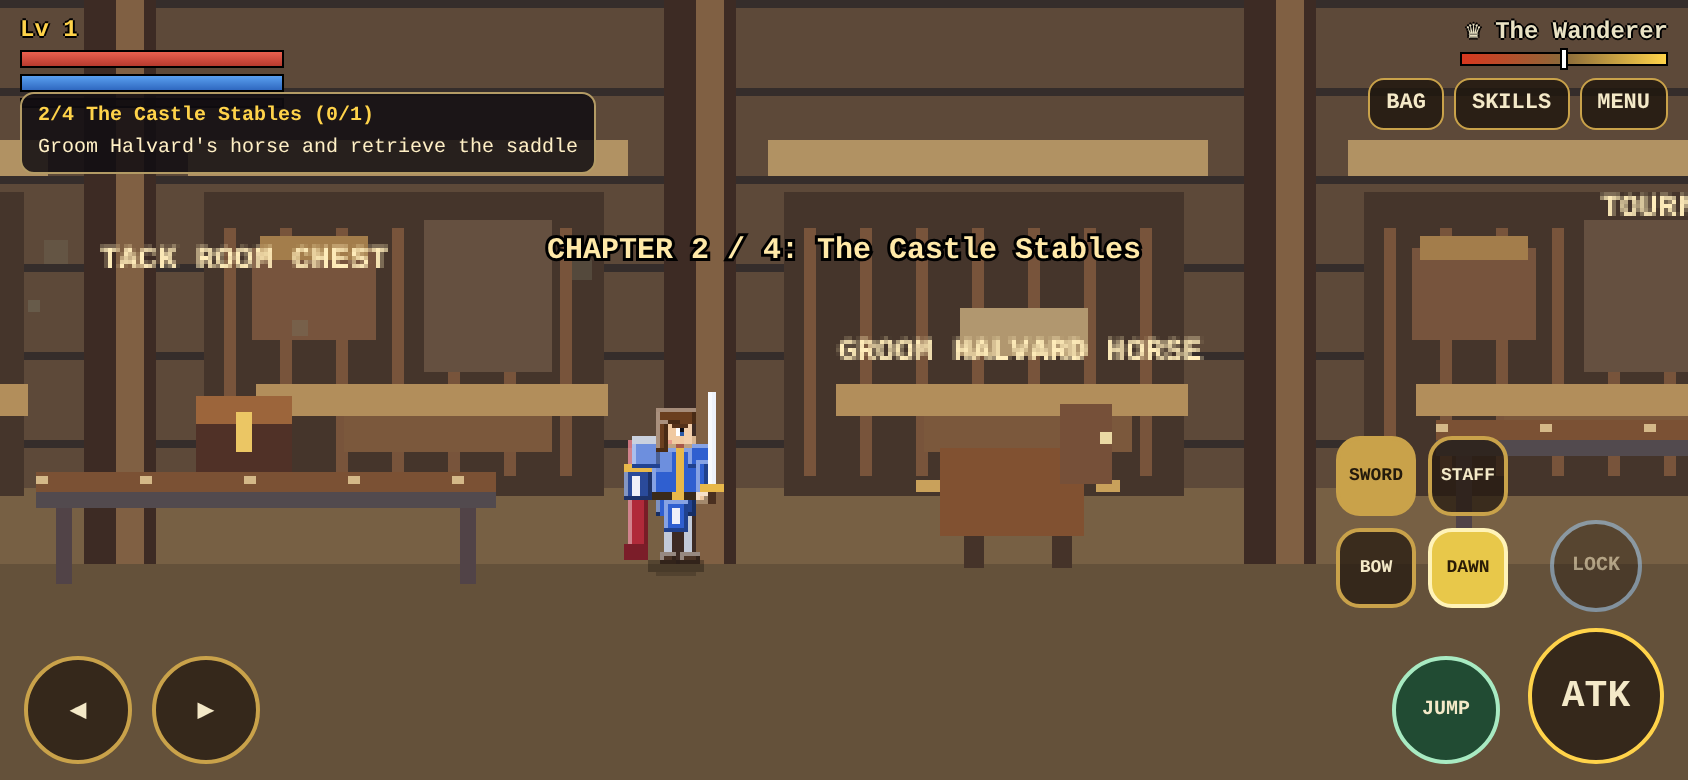
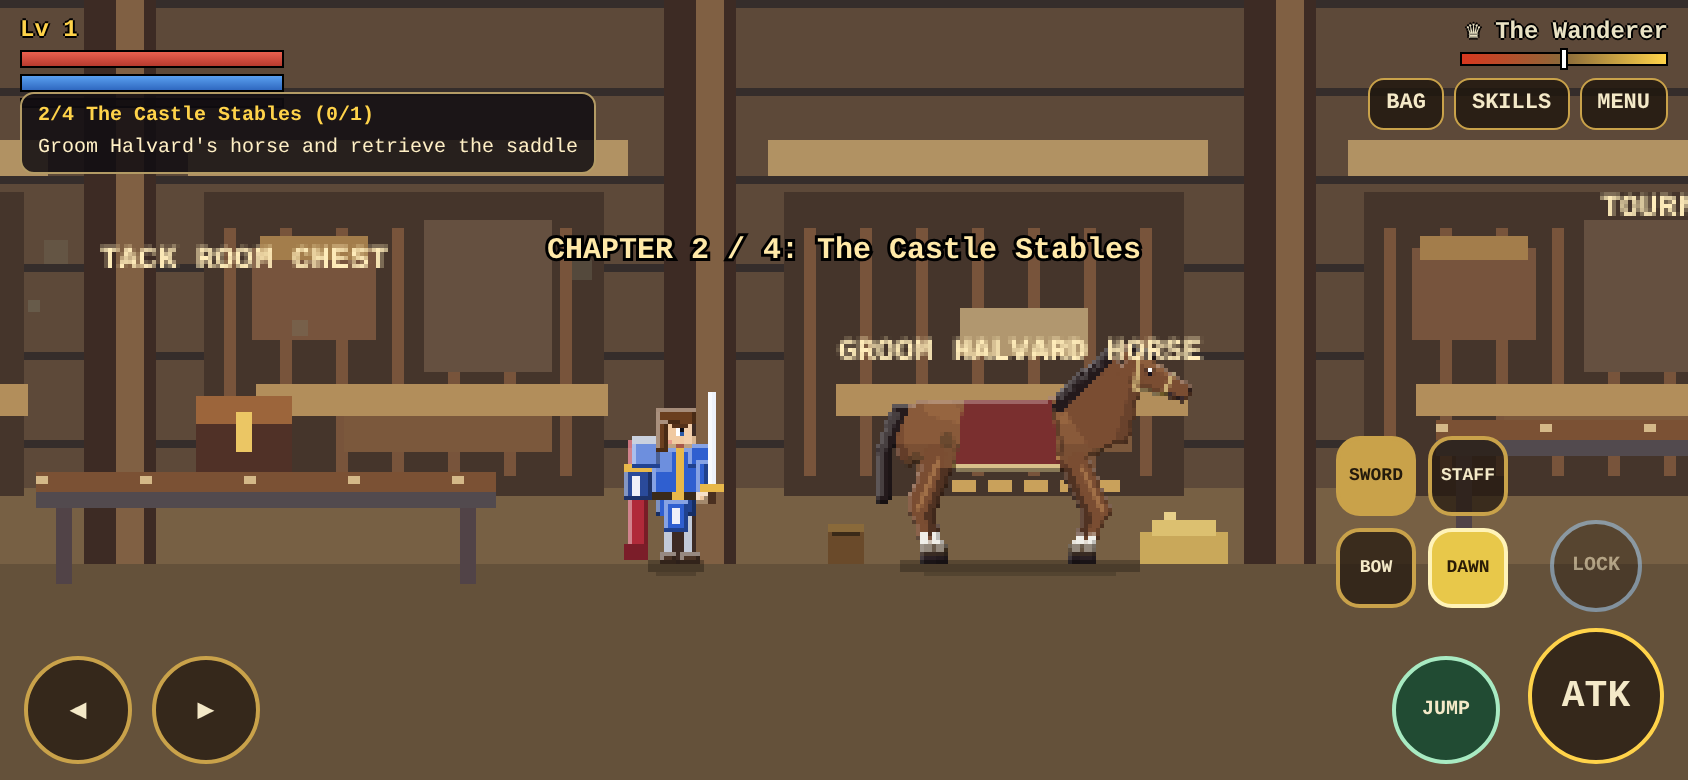
Real stable horse with grooming states, changelog, version 0.6.1
Claude-Session: https://claude.ai/code/session_01V9euBesqEzRVVRWFqerHud

Changed region(s): [[0.4929, 0.4308, 0.7393, 0.7385]]

diff --git a/index.html b/index.html
@@ -1095,7 +1095,7 @@ function adventureUse(){
   }else if(o.kind==='gear'){
     toast('COLLECTED: '+o.label);
   }else if(o.kind==='horse'){
-    toast('HORSE GROOMED AND READY');
+    o.groomT=1.1;toast('HORSE GROOMED AND READY');
   }else if(o.kind==='door'){
     toast('DOOR UNLOCKED');
   }else toast('OBJECTIVE COMPLETE');
@@ -1319,7 +1319,7 @@ function adventureWorldDraw(cam){
     R(x+p.w-9,py+9,4,Math.min(32,-p.y-4),'#514347');
   }
   for(const o of a.objects){
-    if(o.done)continue;
+    if(o.done&&o.kind!=='horse')continue;
     const x=Math.round(o.x-cam),py=Math.round(y+(o.y||0));
     if(x<-40||x>W+40)continue;
     const locked=o.need&&!G.flags[o.need];
@@ -1331,15 +1331,21 @@ function adventureWorldDraw(cam){
       R(x-12,py-15,24,15,'#503127');R(x-12,py-19,24,7,'#9c653b');
       R(x-2,py-15,4,10,'#ebc664');
     }else if(o.kind==='horse'){
-      R(x-20,py-29,36,22,'#815131');R(x+10,py-40,13,20,'#765039');
-      R(x-14,py-7,5,8,'#453329');R(x+8,py-7,5,8,'#453329');
-      R(x+20,py-33,3,3,'#ead9a4');
+      // stall dressing: hay, bucket, tack hook
+      R(x+30,py-8,22,8,'#c9a85a');R(x+33,py-11,16,4,'#dcc070');R(x+36,py-13,3,2,'#e8d08a');
+      R(x-48,py-10,9,10,'#6a4a2a');R(x-48,py-10,9,2,'#8a6a3a');R(x-47,py-8,7,1,'#3a2a18');
+      const gr=!!o.done,sd=G.flags.squireSaddle,gt=o.groomT>0;
+      if(gt)o.groomT-=1/60;
+      const ph=gt?S.t*3.2:S.t*.35;
+      drawHorse(x,py,1,{v:'bay',tk:sd?'saddled':gr?'blanket':'stable',liv:'hearth',gait:gt?'groom':'idle',ph,st:{dirty:!gr,groomed:gr}});
+      if(gt&&Math.floor(S.t*14)%2)R(x+Math.round(Math.sin(S.t*9)*14),py-34-Math.round((S.t*40)%12),1,2,'#fff6c0');
+      else if(gr&&Math.floor(S.t*2.2)%5===0)R(x-10+Math.floor(S.t*7)%24,py-30,1,1,'#fff6c0');
     }else{
       R(x-9,py-16,18,16,o.kind==='key'?'#b59e4b':o.kind==='shield'?'#4d6e91':'#6e5843');
       R(x-3,py-20,6,6,'#e8c469');
       if(o.kind==='key'){R(x+7,py-10,8,3,'#e9cb52');}
     }
-    if(!(S.joust&&o.kind==='joust')){g.font='bold 8px Courier New';g.fillStyle='#ffedbb';g.textAlign='center';
+    if(!(S.joust&&o.kind==='joust')&&!o.done){g.font='bold 8px Courier New';g.fillStyle='#ffedbb';g.textAlign='center';
     g.fillText(o.label||o.kind.toUpperCase(),x,py-51);}
   }
   if(S.joust){joustDraw(S.joust,cam,y);joustHud(S.joust,clamp(P.x-cam-48,6,Math.max(6,W-117)),y-96);}

diff --git a/src/45_adventure.js b/src/45_adventure.js
@@ -65,7 +65,7 @@ function adventureUse(){
   }else if(o.kind==='gear'){
     toast('COLLECTED: '+o.label);
   }else if(o.kind==='horse'){
-    toast('HORSE GROOMED AND READY');
+    o.groomT=1.1;toast('HORSE GROOMED AND READY');
   }else if(o.kind==='door'){
     toast('DOOR UNLOCKED');
   }else toast('OBJECTIVE COMPLETE');
@@ -289,7 +289,7 @@ function adventureWorldDraw(cam){
     R(x+p.w-9,py+9,4,Math.min(32,-p.y-4),'#514347');
   }
   for(const o of a.objects){
-    if(o.done)continue;
+    if(o.done&&o.kind!=='horse')continue;
     const x=Math.round(o.x-cam),py=Math.round(y+(o.y||0));
     if(x<-40||x>W+40)continue;
     const locked=o.need&&!G.flags[o.need];
@@ -301,15 +301,21 @@ function adventureWorldDraw(cam){
       R(x-12,py-15,24,15,'#503127');R(x-12,py-19,24,7,'#9c653b');
       R(x-2,py-15,4,10,'#ebc664');
     }else if(o.kind==='horse'){
-      R(x-20,py-29,36,22,'#815131');R(x+10,py-40,13,20,'#765039');
-      R(x-14,py-7,5,8,'#453329');R(x+8,py-7,5,8,'#453329');
-      R(x+20,py-33,3,3,'#ead9a4');
+      // stall dressing: hay, bucket, tack hook
+      R(x+30,py-8,22,8,'#c9a85a');R(x+33,py-11,16,4,'#dcc070');R(x+36,py-13,3,2,'#e8d08a');
+      R(x-48,py-10,9,10,'#6a4a2a');R(x-48,py-10,9,2,'#8a6a3a');R(x-47,py-8,7,1,'#3a2a18');
+      const gr=!!o.done,sd=G.flags.squireSaddle,gt=o.groomT>0;
+      if(gt)o.groomT-=1/60;
+      const ph=gt?S.t*3.2:S.t*.35;
+      drawHorse(x,py,1,{v:'bay',tk:sd?'saddled':gr?'blanket':'stable',liv:'hearth',gait:gt?'groom':'idle',ph,st:{dirty:!gr,groomed:gr}});
+      if(gt&&Math.floor(S.t*14)%2)R(x+Math.round(Math.sin(S.t*9)*14),py-34-Math.round((S.t*40)%12),1,2,'#fff6c0');
+      else if(gr&&Math.floor(S.t*2.2)%5===0)R(x-10+Math.floor(S.t*7)%24,py-30,1,1,'#fff6c0');
     }else{
       R(x-9,py-16,18,16,o.kind==='key'?'#b59e4b':o.kind==='shield'?'#4d6e91':'#6e5843');
       R(x-3,py-20,6,6,'#e8c469');
       if(o.kind==='key'){R(x+7,py-10,8,3,'#e9cb52');}
     }
-    if(!(S.joust&&o.kind==='joust')){g.font='bold 8px Courier New';g.fillStyle='#ffedbb';g.textAlign='center';
+    if(!(S.joust&&o.kind==='joust')&&!o.done){g.font='bold 8px Courier New';g.fillStyle='#ffedbb';g.textAlign='center';
     g.fillText(o.label||o.kind.toUpperCase(),x,py-51);}
   }
   if(S.joust){joustDraw(S.joust,cam,y);joustHud(S.joust,clamp(P.x-cam-48,6,Math.max(6,W-117)),y-96);}

diff --git a/tests/evidence.js b/tests/evidence.js
@@ -22,7 +22,7 @@ const {pathToFileURL}=require('url'),path=require('path'),fs=require('fs');
   await place(880,0);await shot('04-armory-forge-lances');
   await page.evaluate(()=>{window.__G.loadMissionArea(1);});await settle(500);
   await place(330,0);await shot('05-stables-entry');
-  await place(430,0);await shot('06-stables-horse');
+  await place(430,0);await shot('06-stables-horse');await page.evaluate(()=>{const g=window.__G;g.adventureUse();});await page.waitForTimeout(300);await shot('06b-stables-grooming');await page.waitForTimeout(1200);await shot('06c-stables-groomed');
   await place(610,-36);await shot('07-stables-loft-saddle');
   await page.evaluate(()=>{window.__G.loadMissionArea(2);});await settle(500);
   await place(300,0);await shot('08-lists-entry');

diff --git a/CHANGELOG.md b/CHANGELOG.md
@@ -1,5 +1,12 @@
 # Changelog
 
+## 0.6.1 (development branch — not merged)
+- New `src/46_horse.js`: vector horse rig baked to palette-true pixel frames (cached) with 2-bone IK legs and idle/walk/trot/canter/gallop/charge/halt/recoil/groom poses, coats, tack states (halter, stable blanket, saddled, tourney caparison), dirty/groomed look and rider anchors.
+- New `src/47_joust.js`: ONE deterministic fixed-step joust engine used by both roles. `squire` (Corin on foot hands Halvard a lance; positional reach test) and `rider` (mounted lance-vs-lance with seeded opponent). Easy mode via `G.opts.joustEasy`. Replaces the old timing bar; M0 flags, 3 passes and +35 gold on 2+ handoffs unchanged.
+- Stables: real horse replaces the rectangle, with hay, bucket, grooming animation and dirty→groomed→saddled states. Seated-rider legs in `personParts`.
+- Tests: `tests/joust.js` (determinism, misses, easy mode, rider role); `tests/adventure.js` drives the new engine; `tests/evidence.js` captures before/after scene screenshots.
+- Deferred: mounted joust is engine-level only (no menu "Joust Lab" or story scene yet); armory and tournament-stand scenery redraw; horse combat.
+
 ## 0.5.0 (development branch — not merged)
 - Added opt-in multi-area quest data format with per-area maps, objectives, scene changes and checkpoint saves, preserving existing single-area missions.
 - Rebuilt M10 Fire at Hearthmoor into six connected battlefields and a richer siege narrative.
